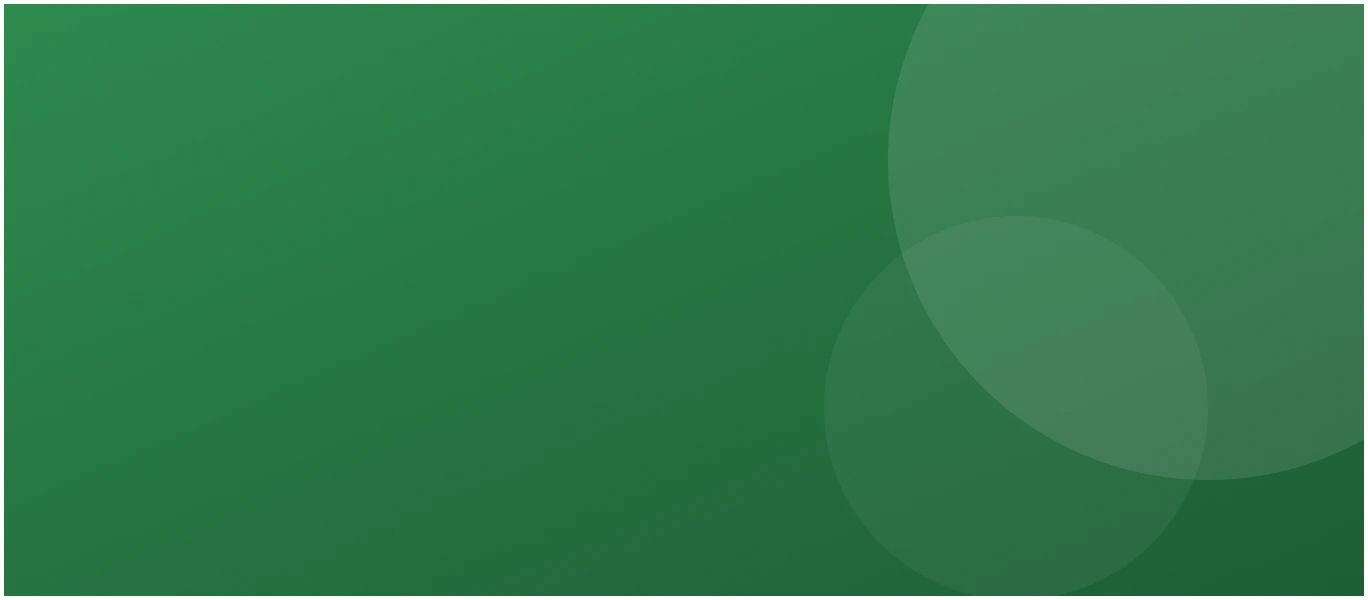
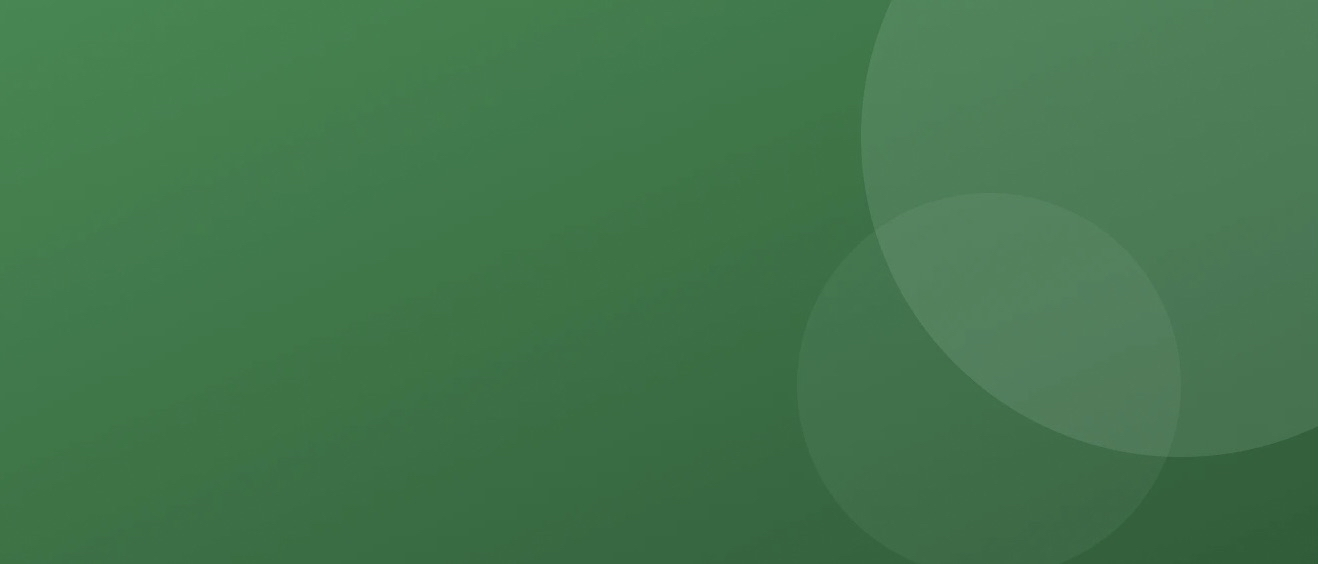
updated

diff --git a/lib/features/screens/widgets/option_widget.dart b/lib/features/screens/widgets/option_widget.dart
@@ -2,6 +2,7 @@ import 'package:flutter/material.dart';
 import 'package:medical_herb/core/constants/app_images.dart';
 import 'package:medical_herb/core/constants/app_spacing.dart';
 import 'package:medical_herb/core/constants/app_text_styles.dart';
+import 'package:medical_herb/core/theme/app_colors.dart';
 
 class OptionWidget extends StatelessWidget {
   final VoidCallback? onPressed;
@@ -11,55 +12,73 @@ class OptionWidget extends StatelessWidget {
 
   @override
   Widget build(BuildContext context) {
+    final isDark = Theme.of(context).brightness == Brightness.dark;
+
+    final cardBgColor = isDark ? const Color(0xFF1E293B) : AppColors.white;
+    final cardBorderColor =
+    isDark ? const Color(0xFF334155) : AppColors.borderColors;
+
     return Row(
       children: [
+        // ── Scan Herb card ──────────────────────────────────────────────
         Expanded(
-          child: InkWell(
-            onTap: onPressed,
-            child: Card(
-              clipBehavior: Clip.antiAlias,
-              shape: RoundedRectangleBorder(
-                borderRadius: BorderRadius.circular(20),
-              ),
-              child: Container(
-                height: 150,
-                decoration: BoxDecoration(
-                  image: DecorationImage(
+          child: SizedBox(
+            height: 150,
+            child: ClipRRect(
+              borderRadius: BorderRadius.circular(20),
+              child: Stack(
+                fit: StackFit.expand,
+                children: [
+                  // Background image fills completely
+                  Image(
                     image: AssetImage(AppImages.herbBanner),
                     fit: BoxFit.cover,
+                    width: double.infinity,
+                    height: double.infinity,
                   ),
-                  border: Border.all(
-                    color: Theme.of(context).colorScheme.surface,
-                  ),
-                ),
-                child: Column(
-                  spacing: AppSpacing.s4,
-                  mainAxisAlignment: MainAxisAlignment.center,
-                  children: [
-                    Image(
-                      image: AssetImage(AppImages.cameraIcon),
-                      width: 48,
-                      height: 48,
+                  // Ripple effect on top
+                  Material(
+                    color: Colors.transparent,
+                    child: InkWell(
+                      onTap: onPressed,
+                      child: Column(
+                        spacing: AppSpacing.s4,
+                        mainAxisAlignment: MainAxisAlignment.center,
+                        children: [
+                          Image(
+                            image: AssetImage(AppImages.cameraIcon),
+                            width: 48,
+                            height: 48,
+                          ),
+                          Text('Scan Herb', style: AppTextStyles.scanText),
+                          Text('Use camera', style: AppTextStyles.uploadCameraText),
+                        ],
+                      ),
                     ),
-                    Text('Scan Herb', style: AppTextStyles.scanText),
-                    Text('Use camera', style: AppTextStyles.uploadCameraText),
-                  ],
-                ),
+                  ),
+                ],
               ),
             ),
           ),
         ),
+
         const SizedBox(width: AppSpacing.w12),
+
+        // ── Upload Image card ───────────────────────────────────────────
         Expanded(
-          child: InkWell(
-            onTap: onUploadPressed,
-            child: Card(
-              clipBehavior: Clip.antiAlias,
-              shape: RoundedRectangleBorder(
+          child: AnimatedContainer(
+            duration: const Duration(milliseconds: 300),
+            height: 150,
+            decoration: BoxDecoration(
+              color: cardBgColor,
+              borderRadius: BorderRadius.circular(20),
+              border: Border.all(color: cardBorderColor, width: 1.2),
+            ),
+            child: ClipRRect(
+              borderRadius: BorderRadius.circular(20),
+              child: InkWell(
                 borderRadius: BorderRadius.circular(20),
-              ),
-              child: SizedBox(
-                height: 150,
+                onTap: onUploadPressed,
                 child: Column(
                   spacing: AppSpacing.s4,
                   mainAxisAlignment: MainAxisAlignment.center,
@@ -70,7 +89,8 @@ class OptionWidget extends StatelessWidget {
                       height: 48,
                     ),
                     Text('Upload Image', style: AppTextStyles.uploadText),
-                    Text('Form gallery', style: AppTextStyles.uploadCameraText),
+                    Text('Form gallery',
+                        style: AppTextStyles.uploadCameraText),
                   ],
                 ),
               ),

diff --git a/lib/core/providers/scan_provider.dart b/lib/core/providers/scan_provider.dart
@@ -34,7 +34,7 @@ class ScanProvider extends ChangeNotifier {
             toolbarTitle: 'Crop Leaf Image',
             toolbarColor: Colors.green,
             toolbarWidgetColor: Colors.white,
-            initAspectRatio: CropAspectRatioPreset.square, // পাতাকে স্কয়ার শেপে ক্রপ করা ভালো
+            initAspectRatio: CropAspectRatioPreset.square,
             lockAspectRatio: false,
           ),
           IOSUiSettings(
@@ -53,12 +53,10 @@ class ScanProvider extends ChangeNotifier {
   Future<Map<String, dynamic>> processImage(ImageSource source) async {
     final XFile? image = await _picker.pickImage(
       source: source,
-
     );
     if (image == null) {
       return {'success': false, 'message': null};
     }
-
 
     final croppedPath = await cropImage(image.path);
     if (croppedPath == null) {
@@ -74,17 +72,25 @@ class ScanProvider extends ChangeNotifier {
       _isLoading = true;
       notifyListeners();
 
-
       final resultData = await ApiService.uploadAndPredict(File(imagePath));
 
       _isLoading = false;
 
       if (resultData != null && resultData['success'] == true) {
-        _lastResult = {
-          'success': true,
-          'imagePath': imagePath,
-          'predictionResult': PredictionResult.fromJson(resultData),
-        };
+        final predictionResult = PredictionResult.fromJson(resultData);
+
+        if (predictionResult.primaryConfidence < 0.60) {
+          _lastResult = {
+            'success': false,
+            'message': 'No clear leaf detected. Please crop the image or capture a better photo.',
+          };
+        } else {
+          _lastResult = {
+            'success': true,
+            'imagePath': imagePath,
+            'predictionResult': predictionResult,
+          };
+        }
       } else {
         _lastResult = {
           'success': false,

diff --git a/lib/features/screens/widgets/herb_of_day_widget.dart b/lib/features/screens/widgets/herb_of_day_widget.dart
@@ -2,6 +2,7 @@ import 'package:flutter/material.dart';
 import 'package:medical_herb/core/constants/app_text_styles.dart';
 import 'package:medical_herb/core/data/plant_database.dart';
 import 'package:medical_herb/core/data/plant_images.dart';
+import 'package:medical_herb/core/theme/app_colors.dart';
 import 'package:medical_herb/features/screens/herb_full_details_screen.dart';
 
 class HerbOfDayWidget extends StatelessWidget {
@@ -65,7 +66,7 @@ class HerbOfDayWidget extends StatelessWidget {
                 const SizedBox(height: 4),
                 Text(
                   plant?.scientificName ?? '',
-                  style: AppTextStyles.herbDaySub,
+                  style: AppTextStyles.herbDaySub.copyWith(color: AppColors.secondaryColor),
                 ),
                 const SizedBox(height: 8),
                 if (plant != null && plant.description.isNotEmpty)

diff --git a/lib/features/screens/upload_screen.dart b/lib/features/screens/upload_screen.dart
@@ -110,8 +110,12 @@ class _UploadScreenState extends State<UploadScreen> {
               ? lastResult['predictionResult'] as PredictionResult
               : widget.predictionResult;
 
-          final primaryName = result?.primaryPrediction ?? 'Unknown';
+          final rawName = result?.primaryPrediction ?? 'Unknown';
           final confidence = (result?.primaryConfidence ?? 0.0) * 100;
+
+
+          final isUnrecognized = confidence < 60.0;
+          final primaryName = isUnrecognized ? 'Not a valid leaf' : rawName;
           final allPredictions = result?.top3 ?? [];
 
           final otherPredictions =

diff --git a/lib/core/data/plant_database.dart b/lib/core/data/plant_database.dart
@@ -82,7 +82,7 @@ final Map<String, PlantData> plantDatabase = {
     family: "Asphodelaceae",
     region: "Arabian Peninsula",
   ),
-  "Mint": PlantData(
+  "Pudina": PlantData(
     description:
         "Mint is a fragrant herb from the Mentha genus. It is widely used in culinary dishes, teas, and for its medicinal properties to aid digestion.",
     medicinalUses: [
@@ -468,6 +468,7 @@ final Map<String, PlantData> plantDatabase = {
 final Map<String, String> plantNameAliases = {
   'Sojne-Moringa': 'Moringa',
 };
+
 
 PlantData? getPlantByName(String? name) {
   if (name == null) return null;

diff --git a/lib/features/bottom_nav/bottom_nav_screen.dart b/lib/features/bottom_nav/bottom_nav_screen.dart
@@ -54,9 +54,17 @@ class _BottomNavScreenState extends State<BottomNavScreen> {
     if (image == null || !mounted) return;
 
     final provider = context.read<ScanProvider>();
+
+    showDialog(
+      context: context,
+      barrierDismissible: false,
+      builder: (_) => const Center(child: CircularProgressIndicator()),
+    );
+
     final result = await provider.processPickedImage(image.path);
 
     if (!mounted) return;
+    Navigator.pop(context);
 
     if (result['success'] == true) {
       final imagePath = result['imagePath'] as String;
